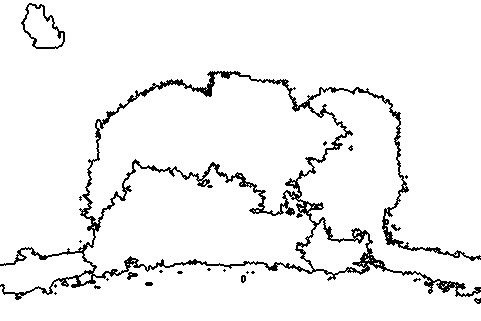
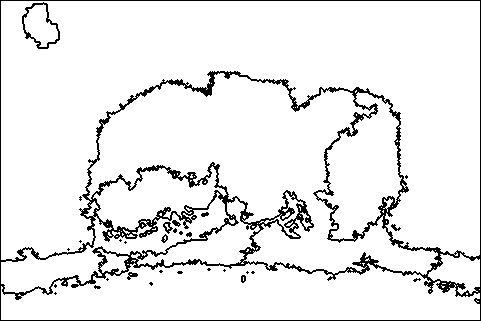
now perfect!

diff --git a/moea/src/main/java/moea/Chromosome.java b/moea/src/main/java/moea/Chromosome.java
@@ -30,18 +30,22 @@ public class Chromosome {
         this.minSegments = minSegments;
         this.weights = weights;
 
-        rootNodes = new ArrayList<>();
+        this.rootNodes = new ArrayList<>();
         this.segments = new ArrayList<>();
         this.edges = new ArrayList<>();
 
         this.generateSegments();
         this.concatenateSegments();
-        DataGenerator dg = new DataGenerator();
-        dg.drawSegments(this.segments);
+
+
         calculateOverallDeviation();
         calculateEdgeValue();
         this.fitness = calculateFitness();
+
+        // TODO: move out of this constructor into the GA
         findEdgePixels();
+        DataGenerator dg = new DataGenerator();
+        dg.drawSegments(this.segments);
         dg.drawTrace(this, true);
         dg.drawTrace(this, false);
 
@@ -168,11 +172,27 @@ public class Chromosome {
     }
 
     public void findEdgePixels(){
+        int maxRow = Integer.MIN_VALUE;
+        int maxCol = Integer.MIN_VALUE;
+
+        for(Segment s  : segments){
+            for( Pixel p : s.pixels){
+                if(p.coordinates[0] > maxRow){
+                    maxRow = p.coordinates[0];
+                }
+                else if(p.coordinates[1] > maxCol){
+                    maxCol = p.coordinates[1];
+                }
+            }
+        }
+
         for(Segment s : segments){
             for(Pixel p : s.pixels){
                 for(Edge nbrs : p.getNeighbours()){
                     Pixel nbr = nbrs.getNeighbourPixel();
-                    if( s.pixels.contains(nbr) ){
+                    if (p.coordinates[0] == 0 || p.coordinates[0] == maxRow || p.coordinates[1] == 0 || p.coordinates[1] == maxCol) {
+                        this.edges.add(p);
+                    } else if( s.pixels.contains(nbr) ){
                         continue;
                     } else {
                         this.edges.add(p);

diff --git a/moea/src/main/java/moea/DataGenerator.java b/moea/src/main/java/moea/DataGenerator.java
@@ -199,9 +199,7 @@ public class DataGenerator {
 
         Color traceColor =  new Color(0,0,0);
 
-        if(colors){
-            traceColor =  new Color(10,250,10);
-        }
+        if(colors){ traceColor =  new Color(10,250,10); }
 
         int traceClr =  (255 << 24) | (traceColor.getRed() << 16) | (traceColor.getGreen() << 8) | traceColor.getBlue();
 
@@ -212,9 +210,8 @@ public class DataGenerator {
                 } else {
                     int color = (255 << 24) | (255 << 16) | (255 << 8) | 255; // white color
                     if(colors) {
-                        color = (255 << 24) | (p.getRGB()[0] << 16) | (p.getRGB()[1] << 8) | p.getRGB()[2];
+                        color = (255 << 24) | (p.getRGB()[0] << 16) | (p.getRGB()[1] << 8) | p.getRGB()[2]; // pixel org. color
                     }
-
                     newImage.setRGB(p.coordinates[1], p.coordinates[0], color);
                 }
             }
